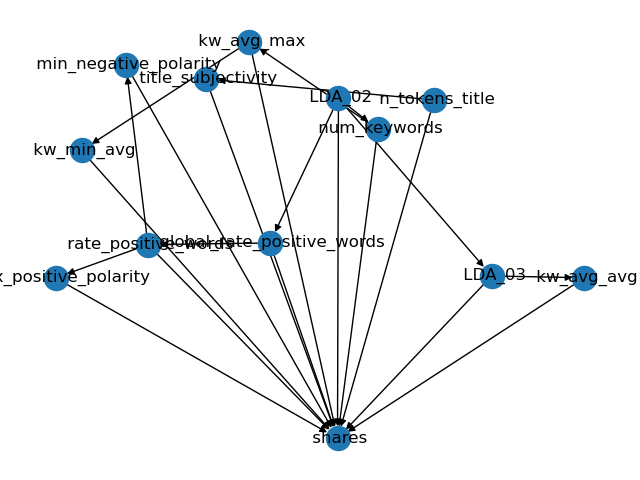
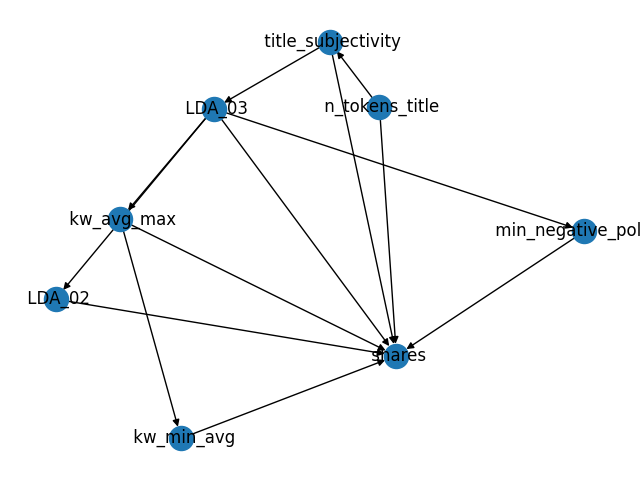
select less features so no memory overload

diff --git a/src/synthesize_data/bayes_net.py b/src/synthesize_data/bayes_net.py
@@ -55,7 +55,7 @@ def binning_optimal(xtrain_col:pd.Series, ytrain:pd.Series, xtest_col:pd.Series,
     return discretized_xtrain_col, discretized_xtest_col
 
 
-def select_features(df, target_name, corr_threshold=0.05, n_features_rfe=10):
+def select_features(df, target_name, corr_threshold=0.1, n_features_rfe=7):
     """
     Function to select features based on correlation and RFE:
     - Filter Method - Correlation Matrix
@@ -87,7 +87,8 @@ def train_BN_BE(xtrain, ytrain, target_name, BN_filename=None, verbose=False):
 
     # Select features based on correlation and RFE
     selected_features = select_features(pd.concat([xtrain, ytrain], axis=1), target_name)
-    # selected_features = [' shares', ' LDA_03', ' weekday_is_saturday', ' is_weekend', ' LDA_02']
+    # selected_features = [' shares', ' LDA_03', ' kw_avg_max', ' min_negative_polarity', ' title_subjectivity',
+    #                  ' LDA_02', ' n_tokens_title', ' kw_min_avg']
     # xtrain = xtrain[selected_features]
     xtrain = xtrain.reindex(sorted(xtrain.columns), axis=1)
     data = pd.concat([xtrain, ytrain], axis=1)
